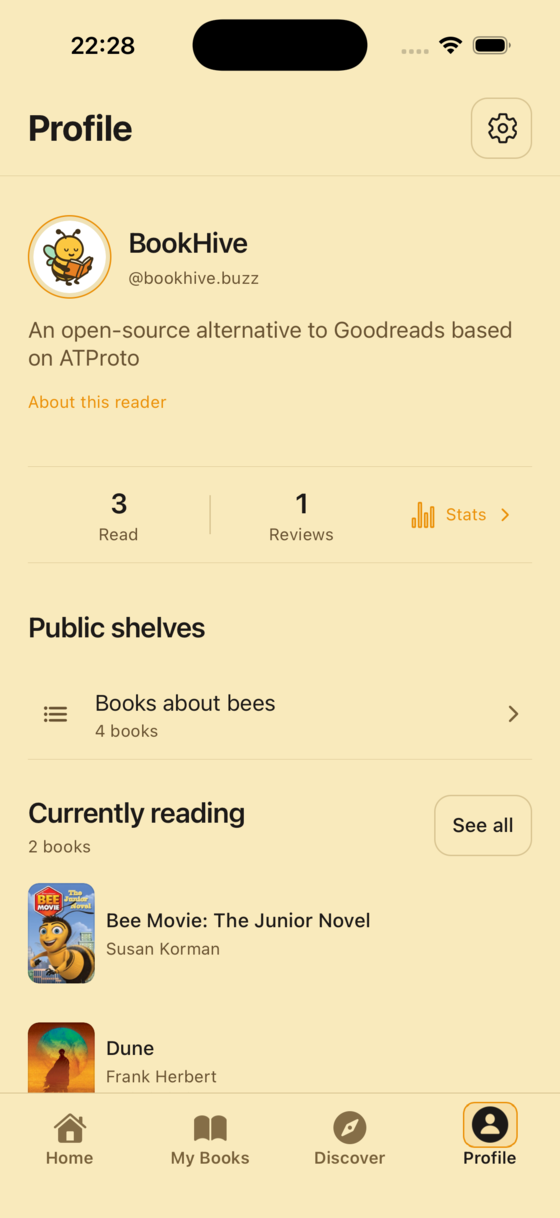
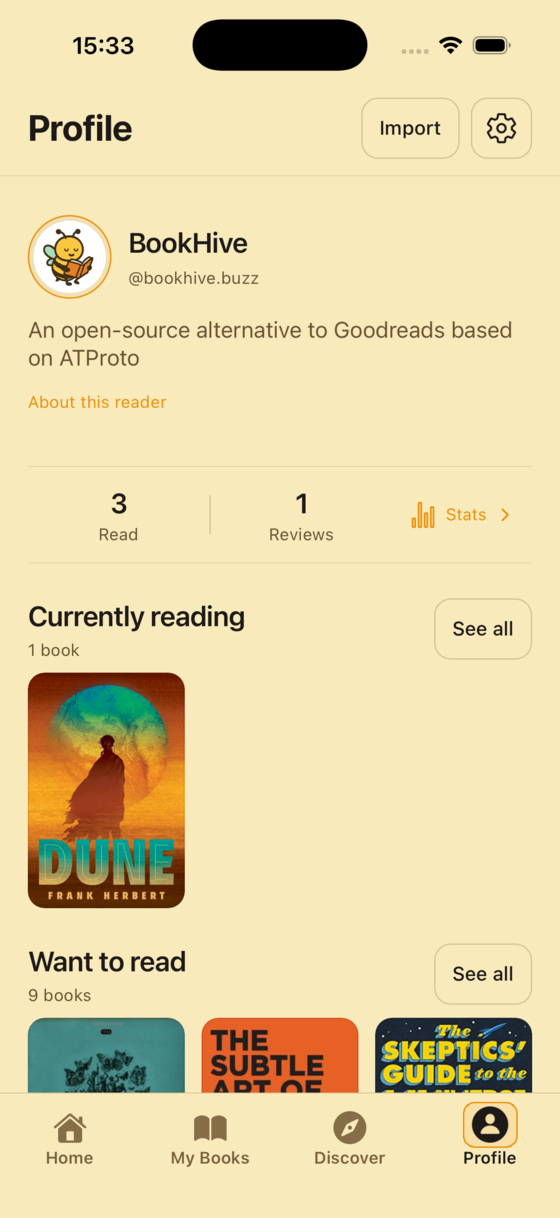
Refresh app landing screenshots with current native layouts

diff --git a/src/pages/app.tsx b/src/pages/app.tsx
@@ -117,7 +117,7 @@ export const AppPage: FC = () => (
         <div class="mx-auto max-w-[300px] overflow-hidden rounded-[2rem] border border-border shadow-xl">
           <Screenshot
             name="home"
-            alt="BookHive Home on iPhone: currently reading, reading totals, want-to-read books and the four main tabs"
+            alt="BookHive Home on iPhone with currently reading covers, reading totals, shelves and the four main tabs"
             width={600}
             height={1304}
             eager
@@ -140,7 +140,7 @@ export const AppPage: FC = () => (
           More finding your next book.
         </h2>
         <p class="mt-4 leading-relaxed text-muted-foreground">
-          Start with Home for your currently reading, want-to-read and recently finished books. My
+          Start with Home for your currently reading books, reading totals and recent activity. My
           Books, Discover and Profile keep everything else close by.
         </p>
       </div>

diff --git a/public/screenshots/app/README.md b/public/screenshots/app/README.md
@@ -1,24 +1,23 @@
 # App landing screenshot provenance
 
 These are genuine signed-in simulator captures selected for the `/app` marketing page
-on 2026-11-15. They show the BookHive public account, not fabricated UI or sample
+on 2026-11-17. They show the BookHive public account, not fabricated UI or sample
 credentials. No sync-credential or private-file screen is included.
 
-Source gallery: `bookhive-release-media/main-9c3b4768/index.html` (local release media,
-outside this repository). The initial capture used merged main `9c3b4768`, Expo SDK
-58, after account re-sync; `*-refined-*` captures include the subsequent local iPad
-responsive work and iPhone regression checks. These are development captures, not
-proof that a store binary containing these changes has been released.
+Source directory: `bookhive-release-media/website-bf7015de/` (local release media,
+outside this repository). Captured from main `bf7015de`, Expo SDK 58, after account
+re-sync and refreshing the iPad cache. These are development captures of the UI
+published through EAS Update, not proof of a newly released store binary.
 
-| Published stem | Source PNG                     | Published size |
-| -------------- | ------------------------------ | -------------- |
-| `home`         | `iphone-refined-home.png`      | 600 × 1304     |
-| `my-books`     | `iphone-refined-my-books.png`  | 560 × 1218     |
-| `discover`     | `iphone-refined-discover.png`  | 560 × 1218     |
-| `profile`      | `14-profile-light.png`         | 560 × 1218     |
-| `book-details` | `07-book-details.png`          | 440 × 957      |
-| `progress`     | `18-progress-editor-light.png` | 440 × 957      |
-| `ipad-home`    | `ipad-refined-home.png`        | 1240 × 1653    |
+| Published stem | Source PNG         | Published size |
+| -------------- | ------------------ | -------------- |
+| `home`         | `home.png`         | 600 × 1304     |
+| `my-books`     | `my-books.png`     | 560 × 1218     |
+| `discover`     | `discover.png`     | 560 × 1218     |
+| `profile`      | `profile.png`      | 560 × 1218     |
+| `book-details` | `book-details.png` | 440 × 957      |
+| `progress`     | `progress.png`     | 440 × 957      |
+| `ipad-home`    | `ipad-home.png`    | 1240 × 1653    |
 
 All seven source images were visually reviewed before selection. The progress
 editor is unsaved; no reading data was modified for this page. Captures retain
@@ -34,6 +33,6 @@ magick SOURCE.png -resize WIDTHx -strip -define png:compression-level=9 NAME.png
 cwebp -preset picture -q 80 -m 6 NAME.png -o NAME.webp
 ```
 
-Combined WebP payload is approximately 225 KiB (230,114 bytes). Only Home is eager /
+Combined WebP payload is approximately 182 KiB (186,520 bytes). Only Home is eager /
 high-priority; the six below-the-fold images are lazy. Existing legacy screenshot
 assets are retained to avoid deleting unrelated material, but `/app` no longer uses them.
